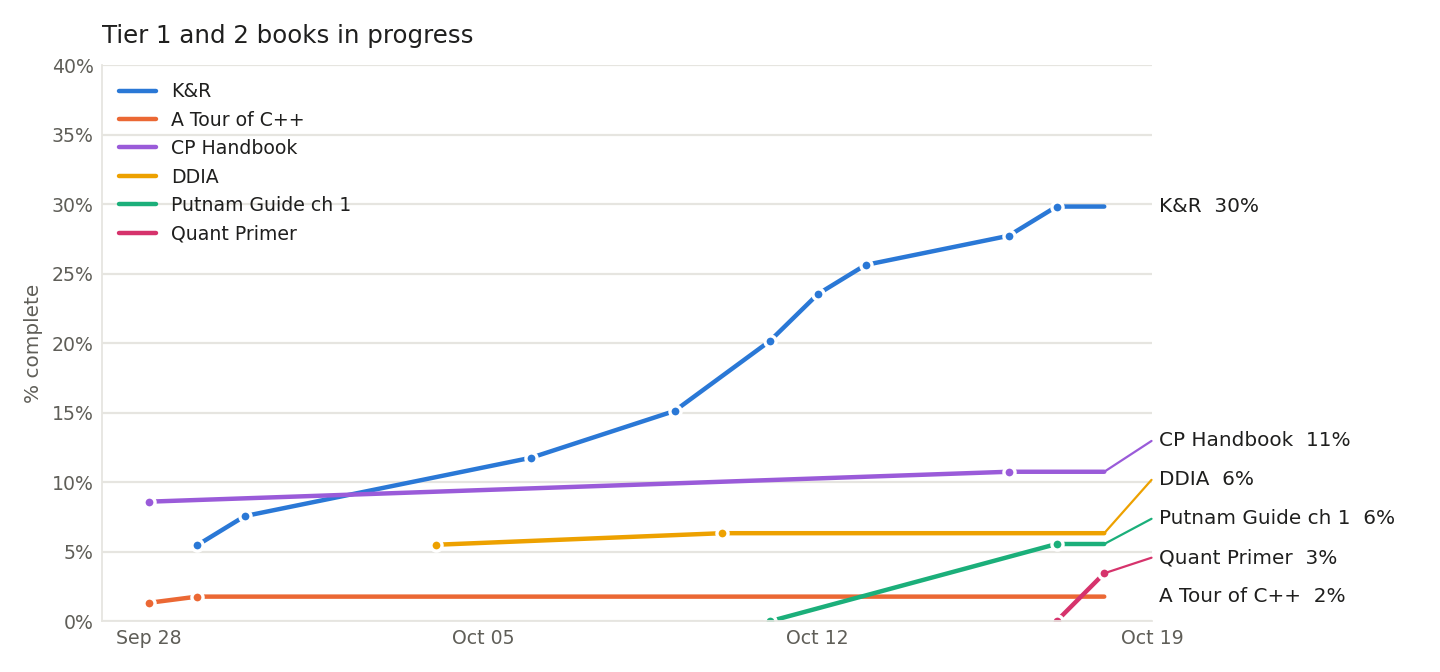
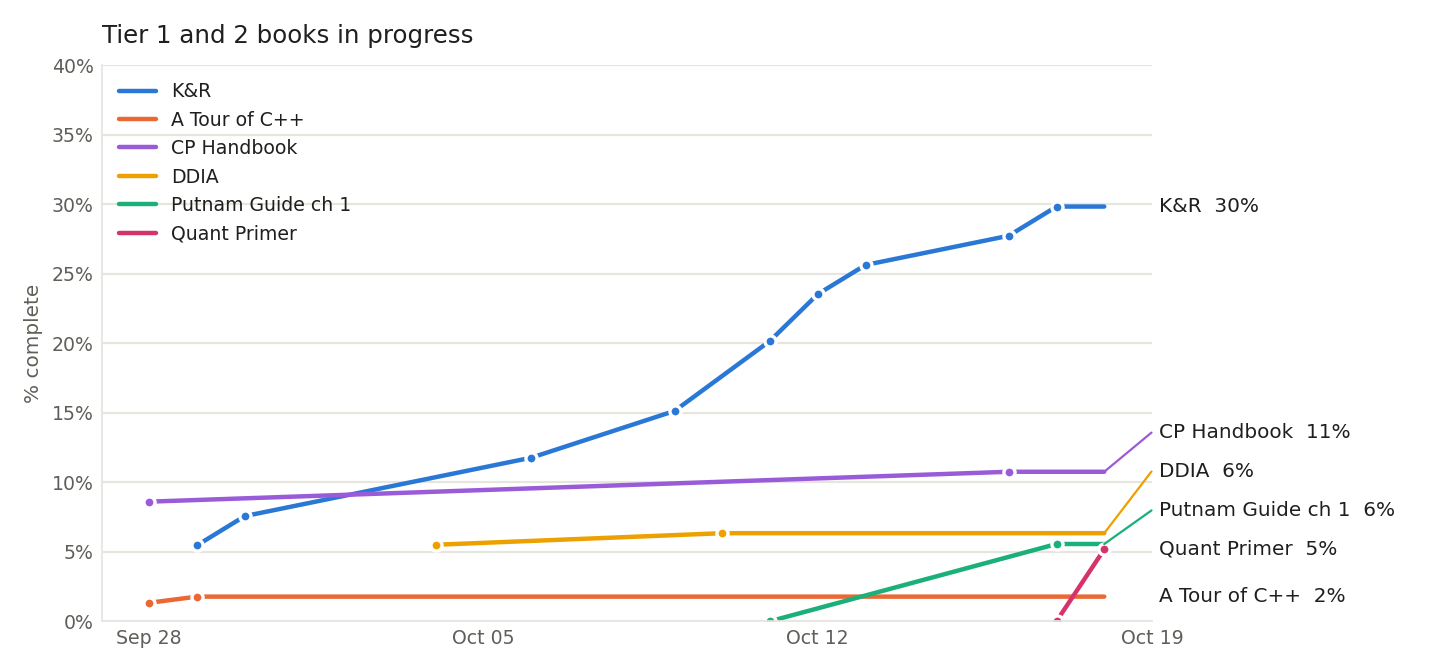
Log Quant Primer question 2 done, 3 of 58

Changed region(s): [[0.75, 0.625, 0.9688, 0.875], [0.7188, 0.875, 0.75, 0.9062]]

diff --git a/tracks/quant.md b/tracks/quant.md
@@ -41,7 +41,7 @@
   2.2 Stick breaking, 3.1 to 3.3 regression theory, 4.1 and 4.2 soft interview, Appendix A tricks A.1 to A.6 (simplest case,
   unit square, recursion, CLT, normal probabilities in your head, law of total expectation), Appendix B code B.1 to B.3,
   Appendix C crib sheet. Total 58 items.
-  Done: questions 1 (two dice), 4 (Python mylist[-1]). In progress: question 2 (E[max(X, Y)] for correlated normals). 2 of 58.
+  Done: questions 1 (two dice), 2 (E[max(X, Y)] = sqrt((1 - rho)/pi) for correlated normals), 4 (Python mylist[-1]). 3 of 58.
 - [ ] **An Introduction to Statistical Learning with Applications in Python** by Gareth James, Daniela Witten, Trevor Hastie, Robert Tibshirani, and Jonathan Taylor (Tier 2)
   Applied stats and ML foundations for quant research: regression, classification, resampling, tree methods, unsupervised learning.
 

diff --git a/README.md b/README.md
@@ -20,7 +20,7 @@ Personal reading list across three tracks. Each track lives in its own file unde
 | CP Handbook | `██░░░░░░░░░░░░░░░░░░` | 11% | 30 of 279 pages |
 | DDIA | `█░░░░░░░░░░░░░░░░░░░` | 6% | 38 of 600 pages |
 | Putnam Guide ch 1 | `█░░░░░░░░░░░░░░░░░░░` | 6% | 4 of 72 items |
-| Quant Primer | `█░░░░░░░░░░░░░░░░░░░` | 3% | 2 of 58 items |
+| Quant Primer | `█░░░░░░░░░░░░░░░░░░░` | 5% | 3 of 58 items |
 <!-- progress:end -->
 
 Data lives in [progress.csv](progress.csv). After logging, run `python3 scripts/plot_progress.py` to redraw the chart and this table.
